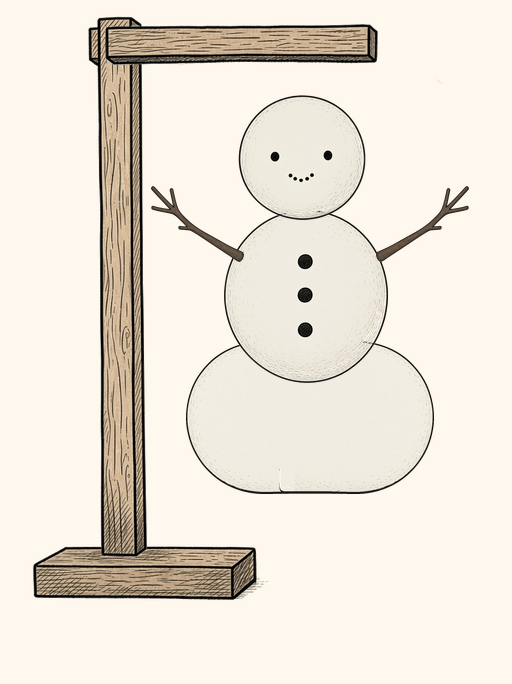
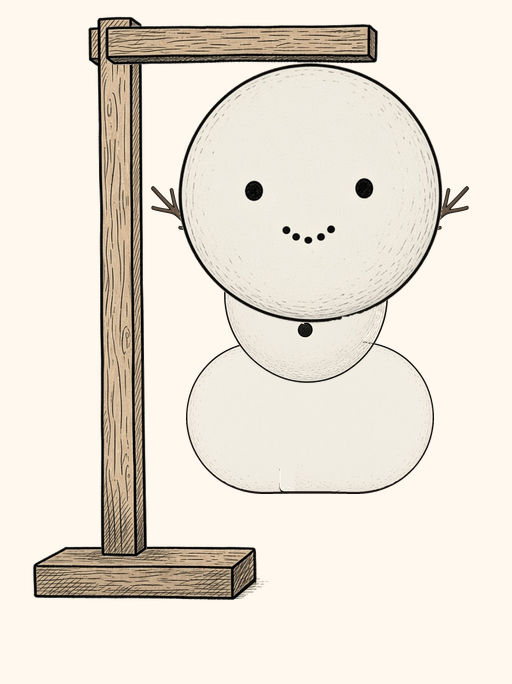
Fix the Christmas Hangman snowman head drawing tiny in-game by clipping stray pixels so the packed PNG fills its square slot.

diff --git a/src/components/HangmanDrawing.tsx b/src/components/HangmanDrawing.tsx
@@ -204,15 +204,23 @@ function DoodleFigure({
         <View key={layer.key}>{layer.node}</View>
       ))}
       {stage >= 1 ? (
-        <Image
-          source={parts.head}
+        <View
           style={
             layout.head
               ? partBox({ ...layout.head, zIndex: layout.head.zIndex ?? 5 })
               : [styles.headLock, { width: HANGMAN_HEAD.width, height: HANGMAN_HEAD.height }]
           }
-          resizeMode="contain"
-        />
+        >
+          <Image
+            source={parts.head}
+            style={
+              layout.head
+                ? partImage(layout.head)
+                : { width: HANGMAN_HEAD.width, height: HANGMAN_HEAD.height }
+            }
+            resizeMode="contain"
+          />
+        </View>
       ) : null}
     </View>
   );
